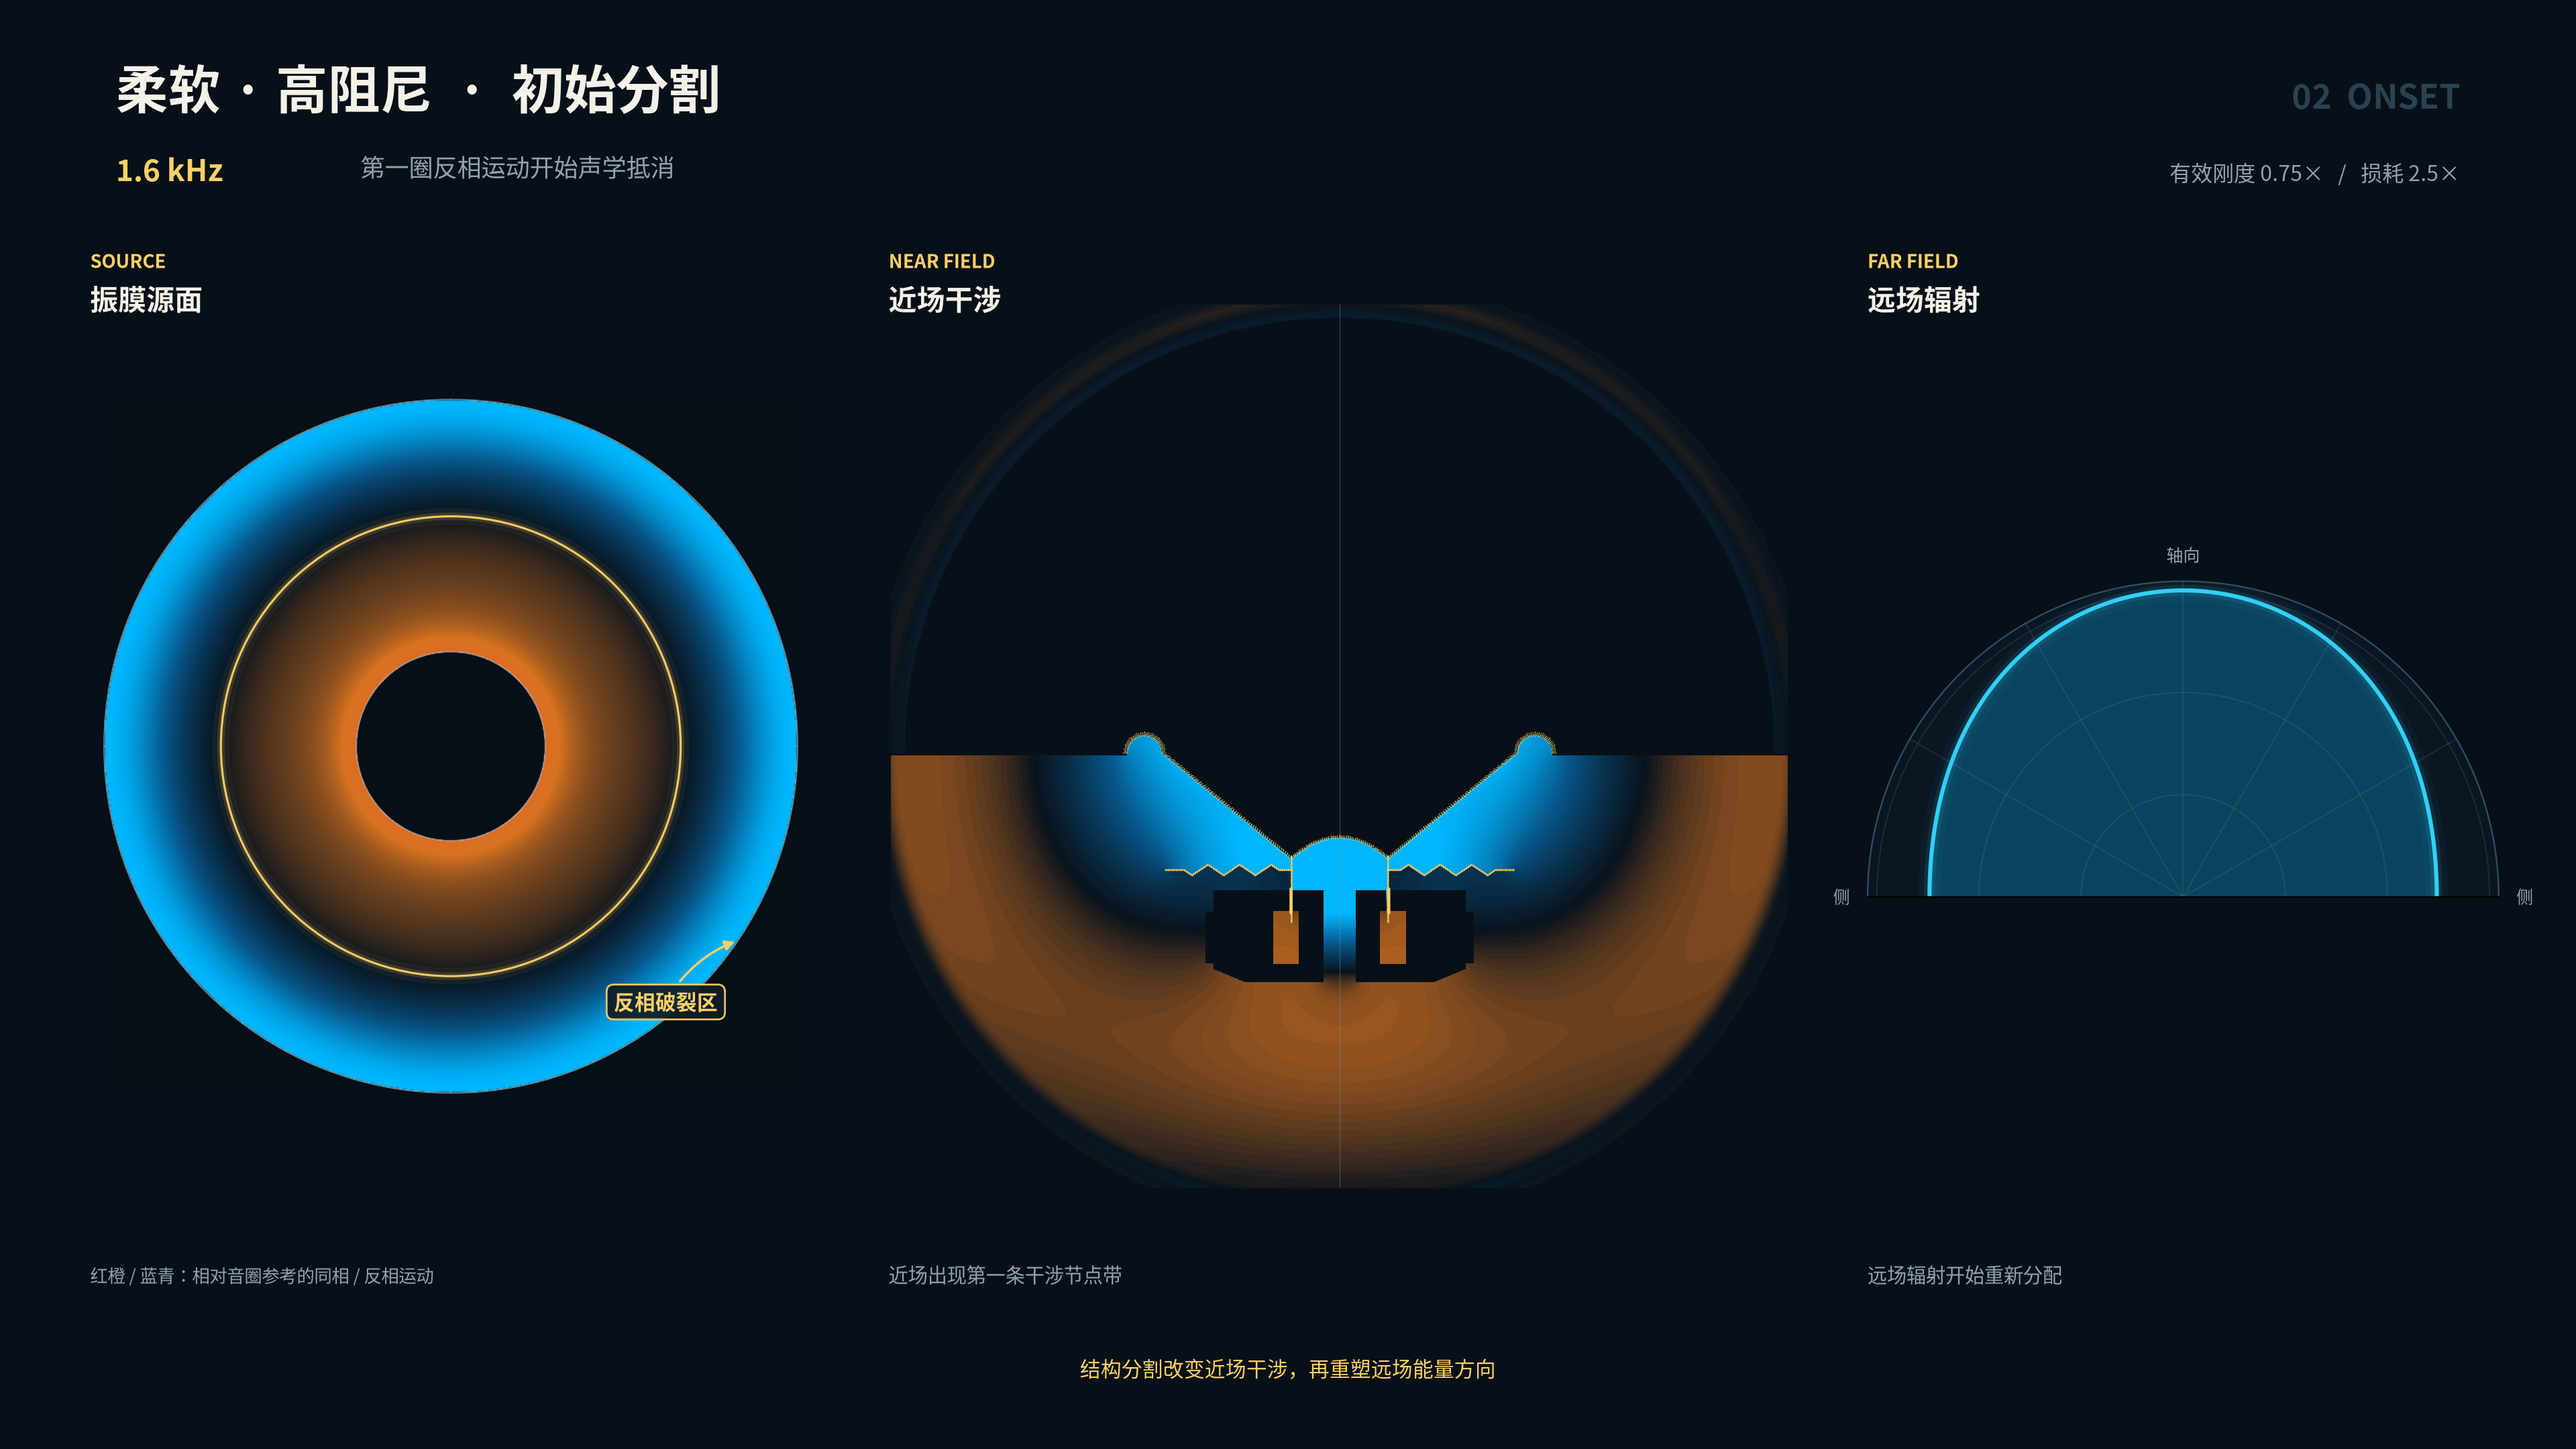
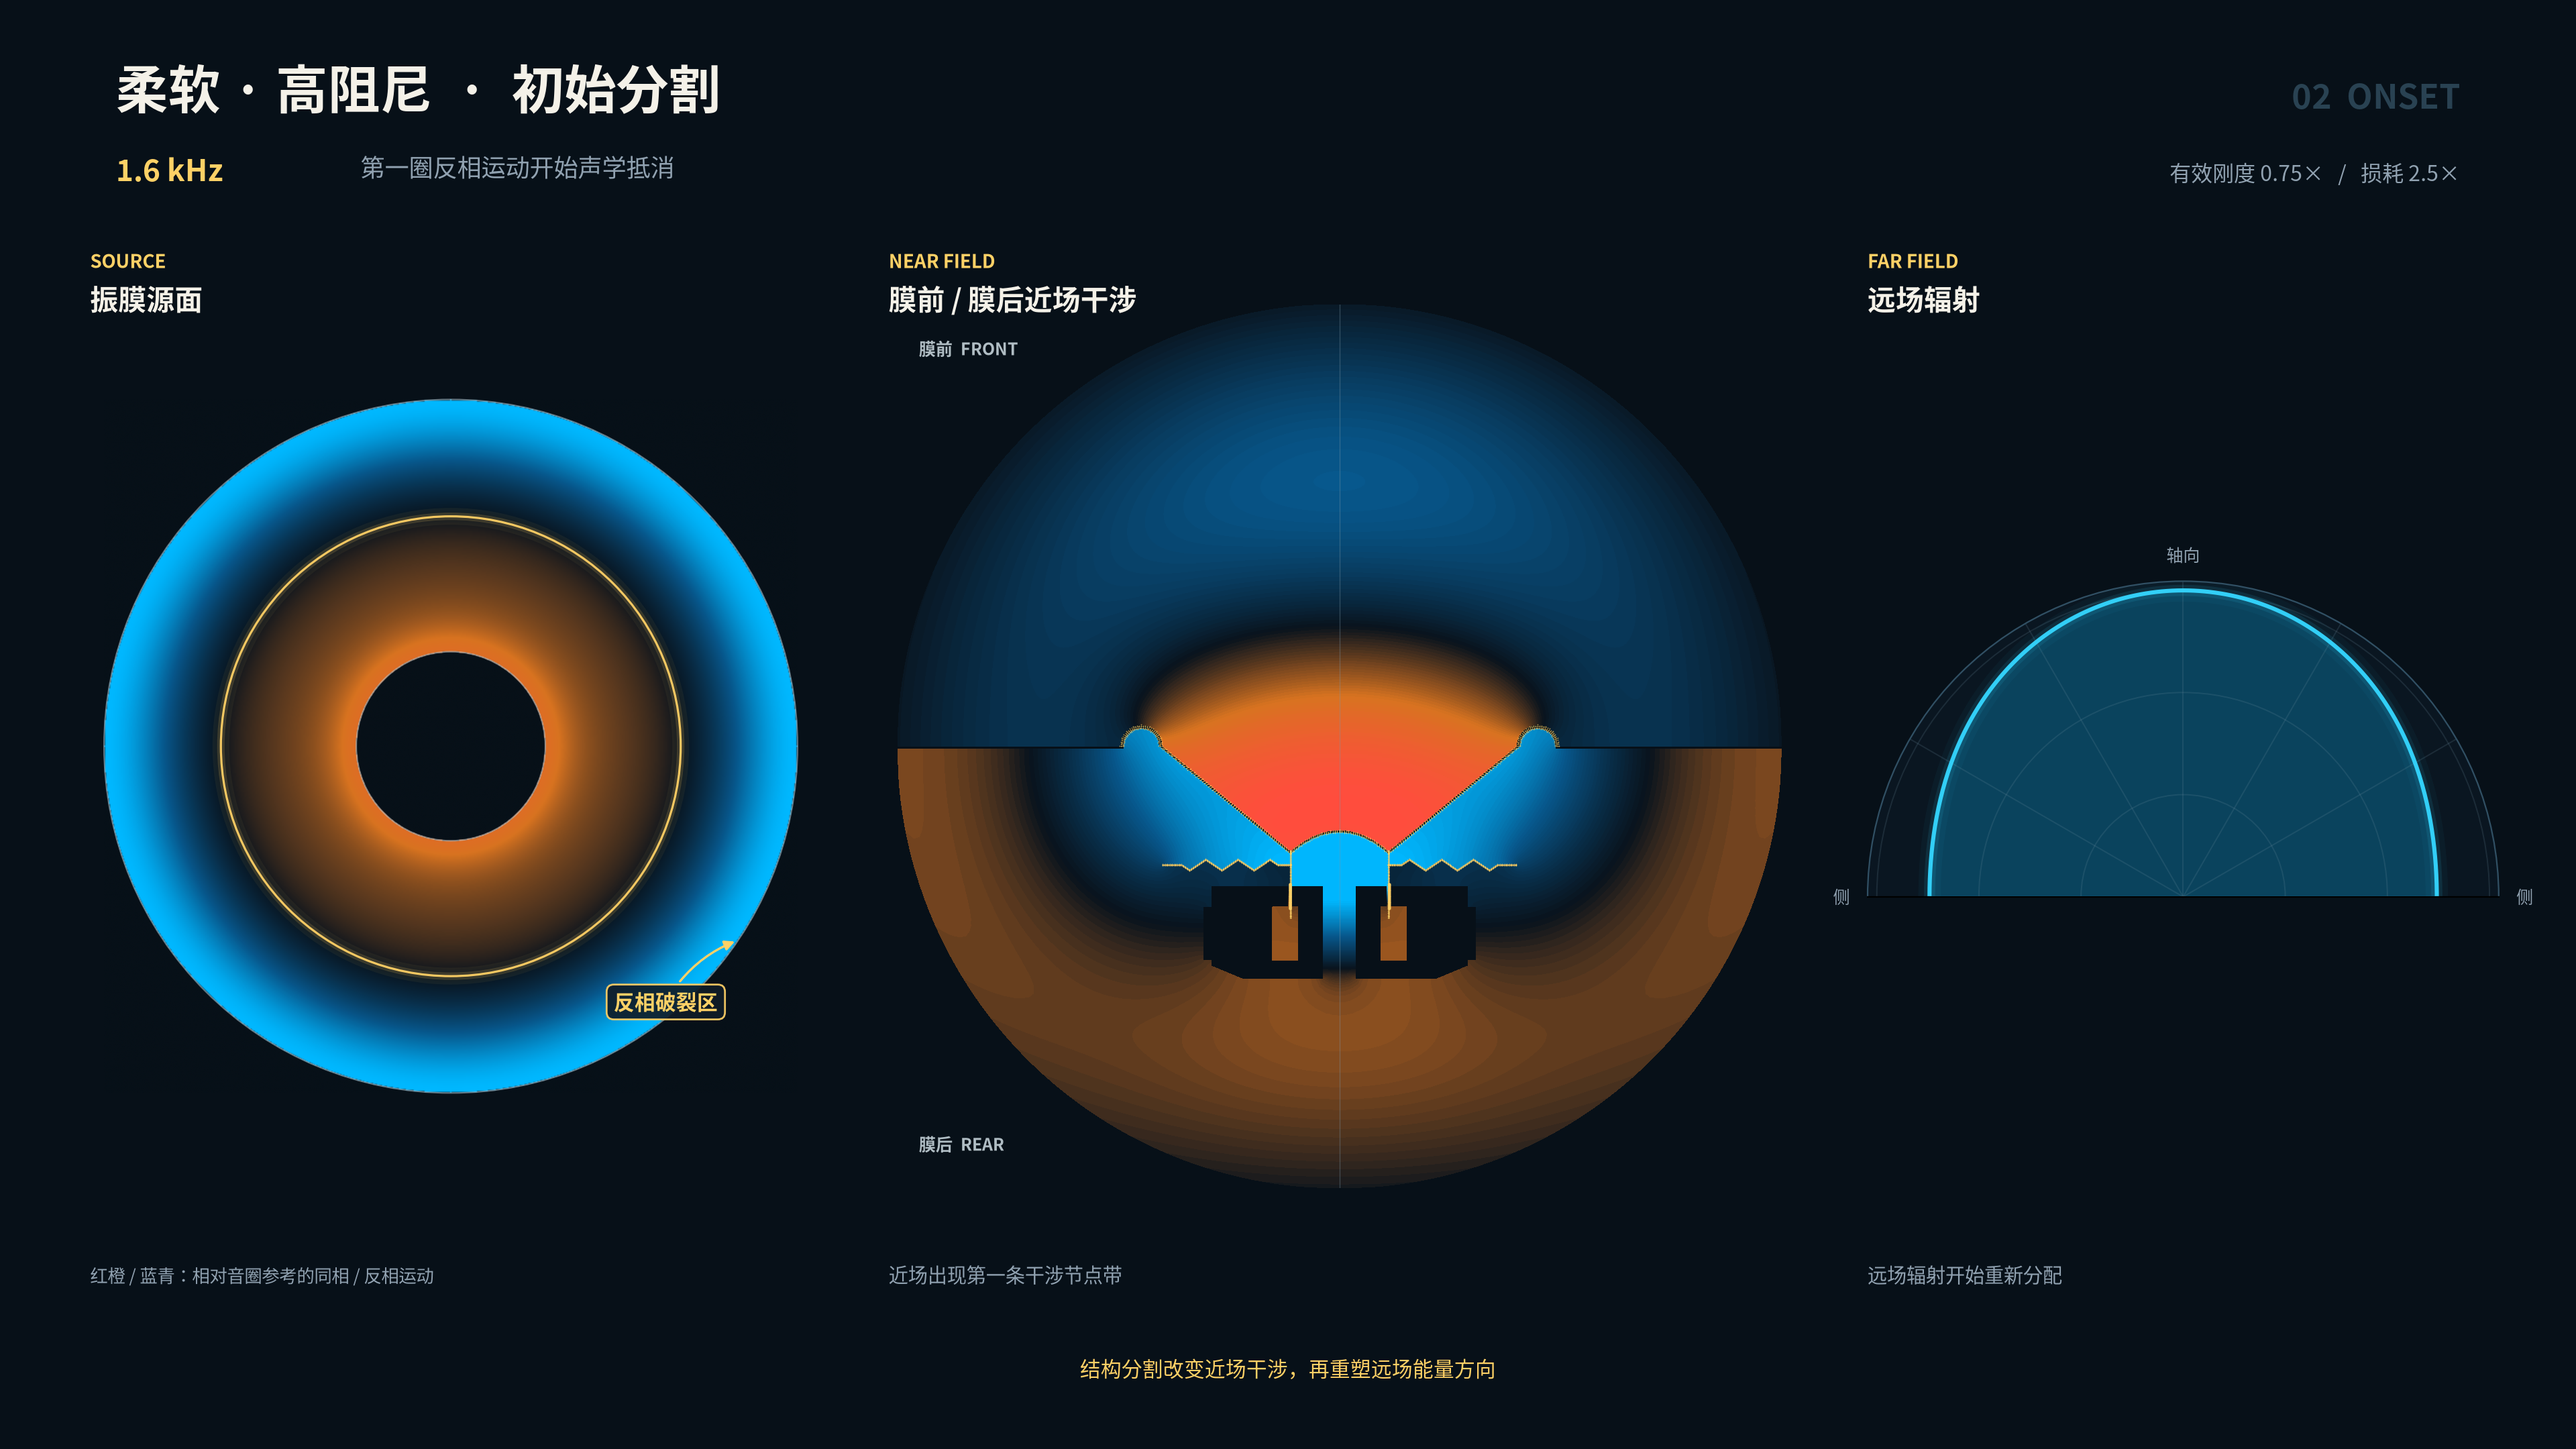
Show both diaphragm sides in acoustic fields

diff --git a/tools/plot_breakup_acoustic_impact.py b/tools/plot_breakup_acoustic_impact.py
@@ -61,10 +61,20 @@ def _phase_reference(solid_vtu: Path) -> float:
 
 
 def _acoustic_triangles(mesh: meshio.Mesh) -> np.ndarray:
+    """Return the physical acoustic cells, including both diaphragm sides.
+
+    Older checkpoint VTUs mislabeled physical domains 3/4 as PML.  Geometry is
+    therefore the compatibility authority here: the current spherical PML is
+    the outermost 15 mm of the 180 mm acoustic mesh.
+    """
     triangles = []
+    rz = np.asarray(mesh.points[:, :2], dtype=float)
+    outer_radius = float(np.max(np.hypot(rz[:, 0], rz[:, 1])))
+    physical_radius = outer_radius - 0.015
     for index, block in enumerate(mesh.cells):
-        tags = np.asarray(mesh.cell_data["is_PML"][index], dtype=int)
-        cells = np.asarray(block.data[tags == 0], dtype=int)
+        cells = np.asarray(block.data, dtype=int)
+        centroids = np.mean(rz[cells[:, :3]], axis=1)
+        cells = cells[np.hypot(centroids[:, 0], centroids[:, 1]) <= physical_radius + 1e-6]
         if block.type == "triangle":
             triangles.extend(cells.tolist())
         elif block.type == "triangle6":
@@ -95,7 +105,9 @@ def _draw_near_field(ax, acoustic_vtu: Path, solid_vtu: Path, phase: float) -> N
     ax.scatter(sx, sz, s=0.45, color=GOLD, alpha=0.62, linewidths=0)
     ax.scatter(-sx, sz, s=0.45, color=GOLD, alpha=0.62, linewidths=0)
     ax.axvline(0, color="#7f98a8", lw=0.5, alpha=0.35)
-    ax.set(xlim=(-170, 170), ylim=(-165, 170))
+    ax.text(-157, 146, "膜前  FRONT", color="#dceaf0", fontsize=9, fontweight="bold", alpha=0.8)
+    ax.text(-157, -151, "膜后  REAR", color="#dceaf0", fontsize=9, fontweight="bold", alpha=0.8)
+    ax.set(xlim=(-165, 165), ylim=(-165, 165))
     ax.set_aspect("equal")
     ax.axis("off")
     ax.set_facecolor(PANEL_BG)
@@ -150,7 +162,7 @@ def _save_story(outdir: Path, case_key: str, case: dict, stage_info, record: dic
 
     headings = [
         (0.035, "SOURCE", "振膜源面"),
-        (0.345, "NEAR FIELD", "近场干涉"),
+        (0.345, "NEAR FIELD", "膜前 / 膜后近场干涉"),
         (0.725, "FAR FIELD", "远场辐射"),
     ]
     for x, english_heading, chinese in headings:

diff --git a/inputs/frequency_mainline/best_model/visualization.py b/inputs/frequency_mainline/best_model/visualization.py
@@ -9,6 +9,7 @@ import pandas as pd
 
 from loudspeaker_axisym_fem.stage4F_hk_refinement import boundary93_hk_samples_recovered
 from loudspeaker_axisym_fem.exterior_field import hk_pressure_from_samples
+from loudspeaker_axisym_fem.stage4C_acoustic_structure import PML_DOMAINS
 
 
 def _complex_columns(prefix: str, x: np.ndarray) -> dict[str, np.ndarray]:
@@ -18,6 +19,11 @@ def _complex_columns(prefix: str, x: np.ndarray) -> dict[str, np.ndarray]:
         f"{prefix}_abs": np.abs(x),
         f"{prefix}_phase_deg": np.angle(x, deg=True),
     }
+
+
+def _pml_flags(domains: np.ndarray) -> np.ndarray:
+    """Map acoustic domain ids to the exported PML marker."""
+    return np.isin(np.asarray(domains, dtype=int), tuple(PML_DOMAINS)).astype(int)
 
 
 def write_solution_files(model, solution, outdir: str | Path) -> dict:
@@ -72,7 +78,7 @@ def write_solution_files(model, solution, outdir: str | Path) -> dict:
         cells.append(("triangle6", pml6))
         if hasattr(model.acoustic_operator, "mixed_triangle6_domains"):
             domains6 = model.acoustic_operator.mixed_triangle6_domains()
-            cell_data.append(np.isin(domains6, (3, 4)).astype(int))
+            cell_data.append(_pml_flags(domains6))
         else:
             cell_data.append(np.ones(len(pml6), int))
     amesh = meshio.Mesh(

diff --git a/tests/test_breakup_transition.py b/tests/test_breakup_transition.py
@@ -11,6 +11,7 @@ sys.path.insert(0, str(ROOT / "inputs" / "frequency_mainline" / "src"))
 sys.path.insert(0, str(ROOT / "inputs" / "frequency_mainline" / "best_model"))
 
 from p2_axisym_solid import complex_stiffness  # noqa: E402
+from visualization import _pml_flags  # noqa: E402
 
 
 def _minimal_cone_model():
@@ -48,3 +49,8 @@ def test_breakup_diagnostic_can_apply_stiffness_multiplier_full_band():
 
     assert np.isclose(production_transition[0, 0].real, 2.0)
     assert np.isclose(full_band_diagnostic[0, 0].real, 5.0)
+
+
+def test_acoustic_export_marks_only_actual_pml_domains():
+    flags = _pml_flags(np.array([1, 2, 3, 4, 5, 7, 8, 22]))
+    assert flags.tolist() == [1, 0, 0, 0, 1, 0, 0, 0]

diff --git a/visualization_records/diaphragm_breakup_parameter_study_20260901/README_CN.md b/visualization_records/diaphragm_breakup_parameter_study_20260901/README_CN.md
@@ -38,7 +38,7 @@
 
 ## 分割程度对近场与远场的影响
 
-以下九张 16:9 独立大图把同一频点的三层信息并排对应：左侧是振膜源面的同相/反相区域，中间是 FEM 近场声压干涉，右侧是由求解结果计算的远场辐射形态。它们不是把多个频点挤进一张总览，而是每个参数、每个阶段各占一张完整画布。
+以下九张 16:9 独立大图把同一频点的三层信息并排对应：左侧是振膜源面的同相/反相区域，中间同时展示 FEM 膜前（+z）与膜后（−z）近场声压干涉，右侧是由求解结果计算的远场辐射形态。它们不是把多个频点挤进一张总览，而是每个参数、每个阶段各占一张完整画布。
 
 ### 柔软、高阻尼
 
